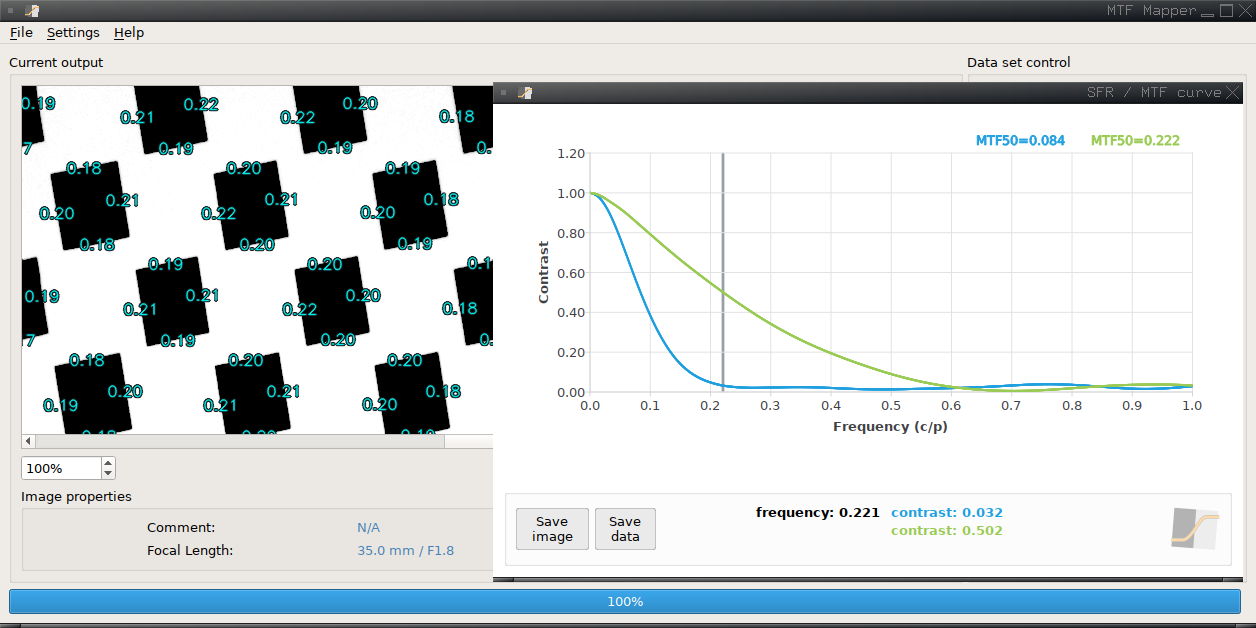
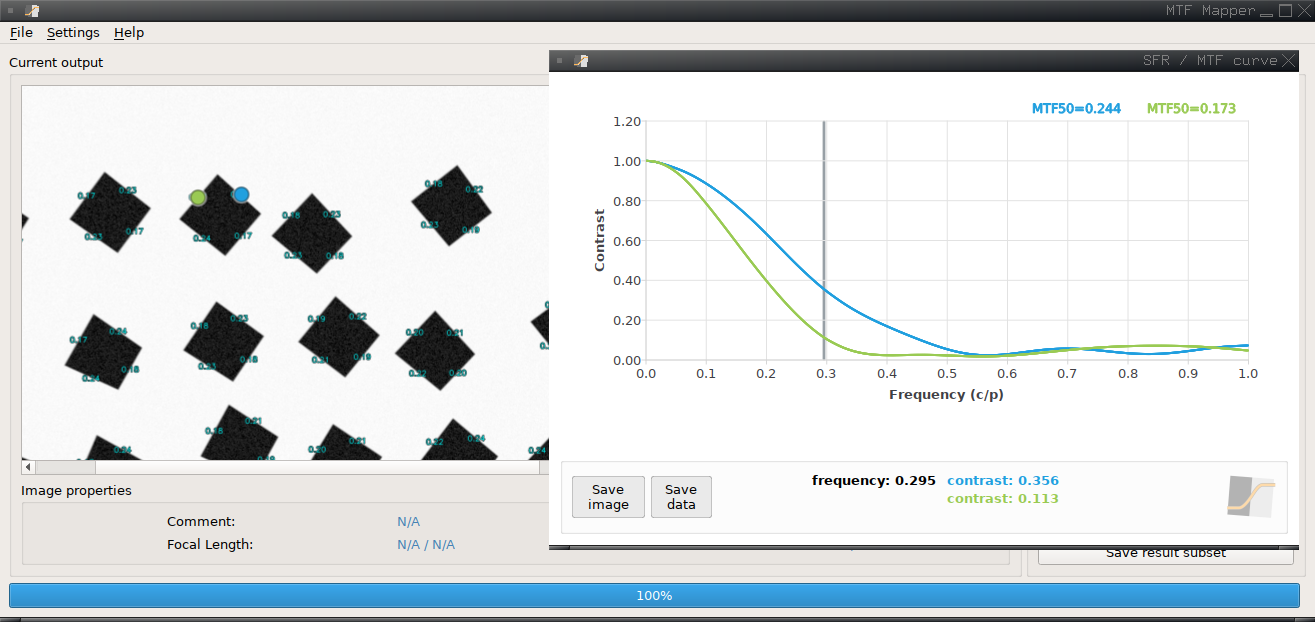
documentation updated to match OpenGL viewer improvements

diff --git a/doc/mtf_mapper_user_guide.tex b/doc/mtf_mapper_user_guide.tex
@@ -223,9 +223,8 @@ across different aperture settings of the lens.
 \begin{figure}[!hb]
 \centering
 \includegraphics[width=0.85\textwidth]{figures/sfr_example}
-\caption{Two edges have been selected. One is out of focus, the other much
-sharper, like the edges visible in the ``Current output'' panel in the
-background. The pop-up window displays the SFR curves for both of these
+\caption{Two edges have been selected. One is slightly out of focus, the other sharper,
+The pop-up window displays the SFR curves for both of these
 edges by plotting contrast vs frequency.}
 \label{fig:sfr_example}
 \end{figure}
@@ -421,11 +420,19 @@ called \texttt{annotated} (highligthed by the red box).
 \label{fig:open_example2}
 \end{figure}
 
-You can see the top-left part of the \textsf{Annotated} image output being shown in
-the \textsf{Current output} panel. You can drag the image in the output window to pan, 
-or you may choose to use the scroll bars (if present). 
-The \verb-+-, \verb+-+, and \verb+=+ keys may be used to zoom in, zoom out,
-or zoom to 100\%, but you may have to click on the image first to set window focus.
+You can see the \textsf{Annotated} image output being shown in
+the \textsf{Current output} panel; if the image dimensions exceed the window
+size, then the initial display scale of the image
+will be chosen so that one of the image dimensions fills the window
+either horizontally or vertically.
+You can drag the image in the output window to pan, or you may choose to use the scroll bars.
+You may also use the mouse wheel to pan vertically, or hold down the shift
+key while scrolling the mouse wheel to pan horizontally. You can zoom
+in and out by holding down the control key while scrolling the mouse wheel,
+but note that the maximum magnification factor is $2\times$. If the image is
+smaller than the window size, zooming is disabled. Lastly, you can also zoom by
+holding down the mouse middle button while moving the mouse up/down.
+
 
 At the bottom of the \textsf{Data set control} panel you will see three
 buttons that can be used to either clear or save all the results currently
@@ -983,6 +990,17 @@ where MTF Mapper \emph{assumes} you have placed the autofocus sensor when you
 framed the shot.
 
 \subsection{Plots of SFR curves (or MTF curves)}
+\begin{figure}[!hb]
+\centering
+\includegraphics[width=0.85\textwidth]{figures/sfr_example}
+\caption{Two edges have been selected. One is slightly out of focus, the other 
+sharper. The pop-up window displays the SFR curves for both of these
+edges by plotting contrast vs frequency. The two coloured dots drawn over
+the selected edges in the annotated image correspond to the colours used 
+to plot the SFR curves.}
+\label{fig:sfr_example_repeat}
+\end{figure}
+
 A brief description of this output type is given in
 Section~\ref{sec:sfr_curve}. The following points should be noted regarding
 this output type:
@@ -1007,9 +1025,8 @@ using this technique.
 If the window already contains three curves, shift-clicking will overwrite the
 last curve added to the SFR curve window;
 \item
-Currently MTF Mapper does not draw markers on the \textsf{Annotated image}
-output to indicate which edges are being plotted in the SFR curve window.
-This will be addressed at some time in the future;
+MTF Mapper draws coloured dots on the \textsf{Annotated image}
+output to indicate which edges are being plotted in the SFR curve window;
 \item
 The SFR curve window supports the display of the full SFR curve, i.e., by
 adding the \texttt{--full-sfr} option to the `Arguments' field of the
